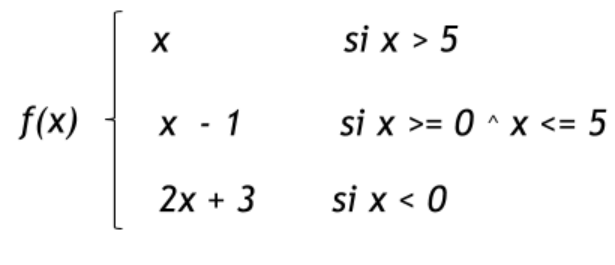
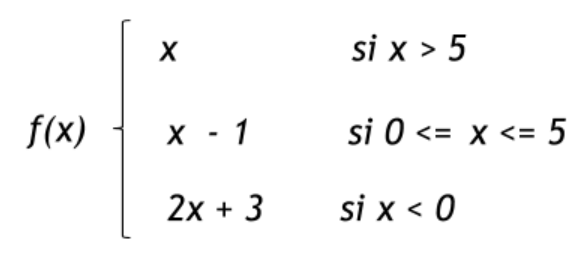
Better function definition and adding gnuplot link

diff --git a/README.md b/README.md
@@ -28,7 +28,9 @@ Queremos modelar la siguiente función matemática, definida por partes:
 
 ![image](images/graficoFuncion.png)
 
-Se pide definir _f_ en Haskell
+(graficado con [gnuplot](http://www.gnuplot.info/))
+
+Se pide definir _f_ en Haskell, dentro del archivo [Solucion00.hs](./Solucion00.hs)
 
 ## Pruebas
 
